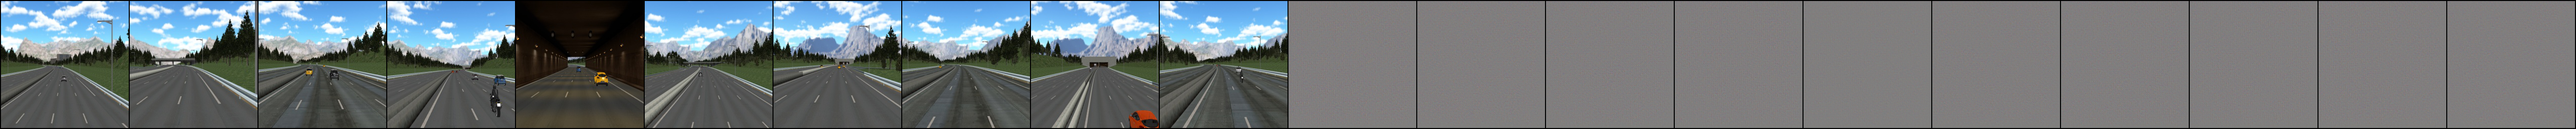
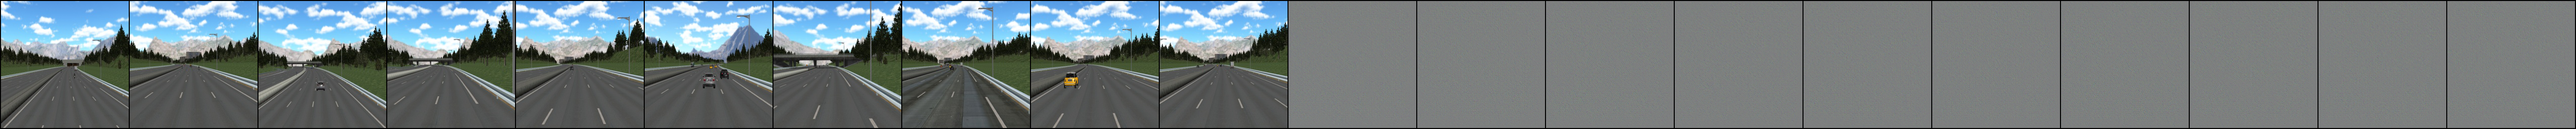
500 epoch prosivic train run

Changed region(s): [[0.0, 0.0, 0.499, 1.0], [0.0, 0.8923, 0.0312, 0.9231]]

diff --git a/configuration.py b/configuration.py
@@ -15,9 +15,9 @@ class Configuration(object):
 
     # Hyperparameters
     betas = (0.5,0.999)
-    learning_rate = 0.00
-    n_train_epochs = 100
-    n_epochs_between_lr_change = 1000
+    learning_rate = 0.002
+    n_train_epochs = 500
+    n_epochs_between_lr_change = 200
     batch_size = 10
 
     # Dataset options
